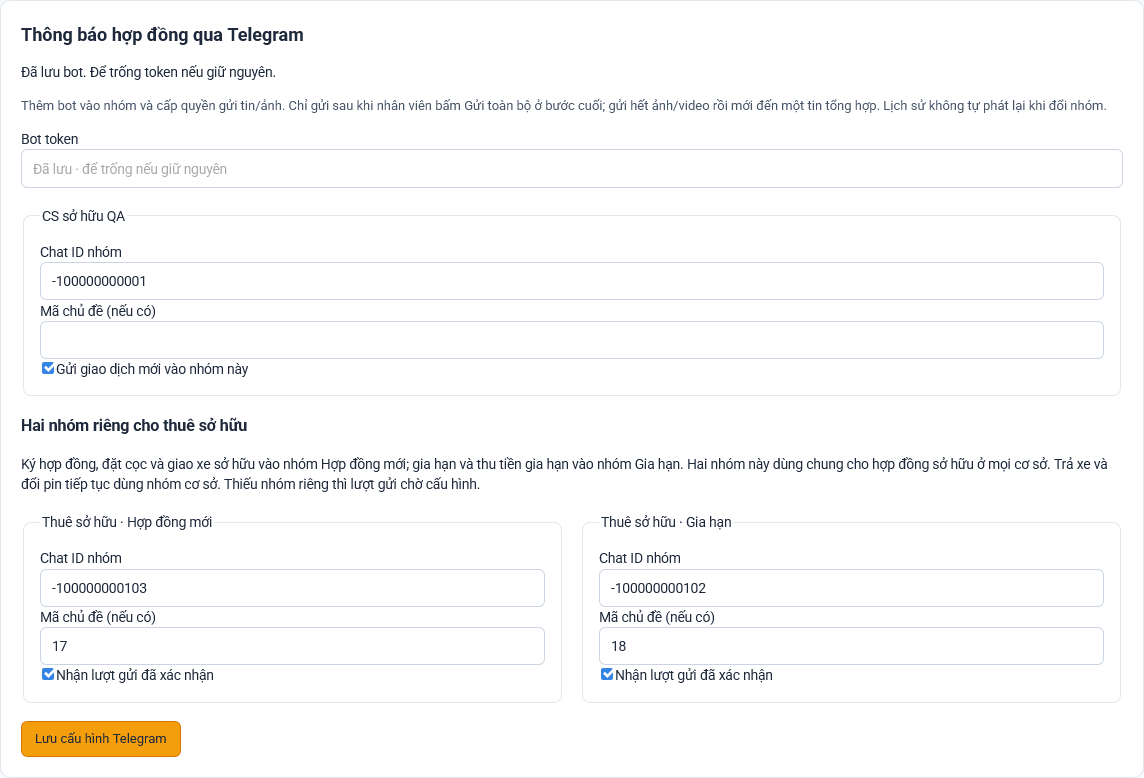
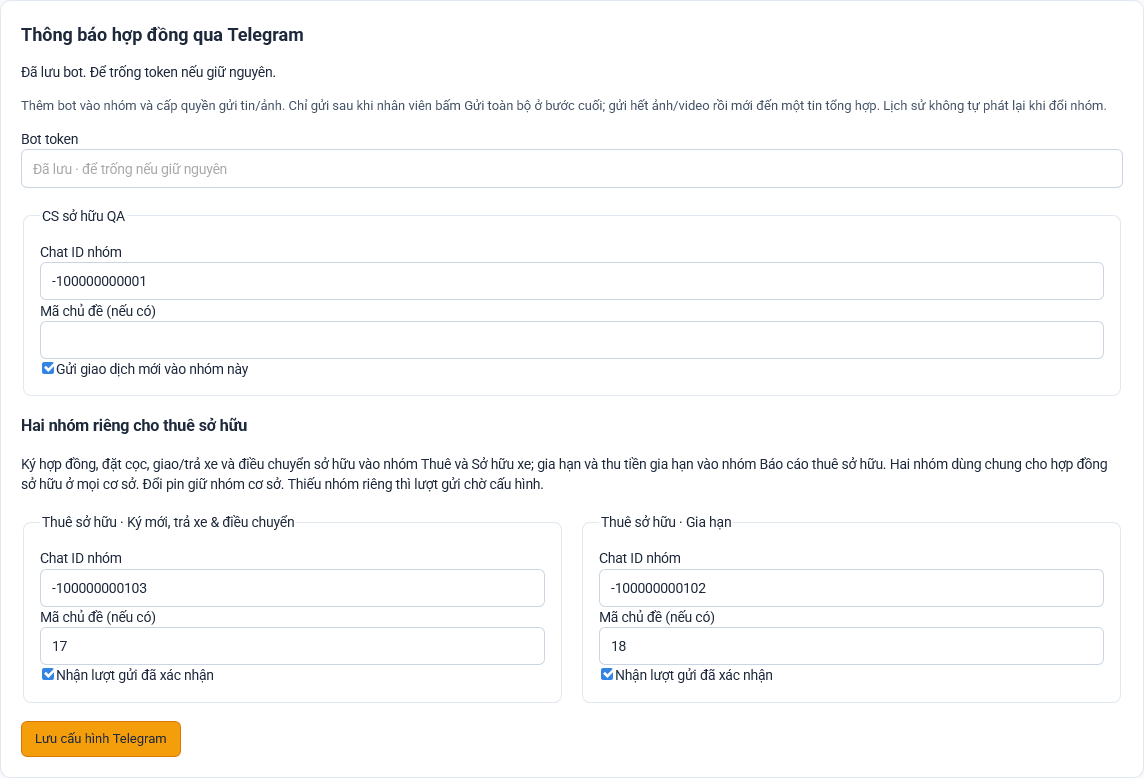
feat: route ownership returns and transfers to confirmed Telegram groups

Changed region(s): [[0.0306, 0.5861, 0.979, 0.6787]]

diff --git a/src/lib/server/vehicle-transfer-telegram.ts b/src/lib/server/vehicle-transfer-telegram.ts
@@ -1,0 +1,52 @@
+import 'server-only';
+import { randomUUID } from 'node:crypto';
+import type { PoolClient } from 'pg';
+import { hasPermission,type PermissionAccount } from '@/lib/management/permissions';
+import type { VehicleTransferTelegramState } from '@/lib/management/vehicle-transfer-telegram';
+import { OWNERSHIP_TELEGRAM_DESTINATIONS } from '@/lib/management/telegram-destinations';
+import { contractNotificationText,type NotificationPayload } from './contract-notification-content';
+import { OWNERSHIP_ORDER_SQL } from './contract-telegram-routing';
+
+type Database=Pick<PoolClient,'query'>;
+type User=PermissionAccount&{store_id?:number|null;scope_all?:boolean};
+export class VehicleTransferTelegramError extends Error {constructor(message:string,public status=400){super(message);}}
+export async function readVehicleTransferTelegram(db:Database,vehicleId:number,eventId:number,user:User) {
+  const e=(await db.query(`SELECT e.id,e.vehicle_id,e.event_type,e.from_store_id,e.to_store_id,e.notes,
+    e.created_at AT TIME ZONE 'Asia/Ho_Chi_Minh' AS at,
+    COALESCE(e.audit_snapshot->>'license',v.license) AS license,COALESCE(e.audit_snapshot->>'vehicle_name',v.name) AS vehicle_name,
+    COALESCE(e.audit_snapshot->>'actor_name',u.name) AS actor,
+    COALESCE(e.audit_snapshot->>'from_store_name',fs.store_name) AS from_name,COALESCE(e.audit_snapshot->>'to_store_name',ts.store_name) AS to_name,
+    (fs.kind='lease_to_own' OR ts.kind='lease_to_own' OR COALESCE(r.ownership,false)) AS ownership
+    FROM himoto.vehicle_location_events e JOIN himoto.vehicles v ON v.id=e.vehicle_id
+    LEFT JOIN himoto.stores fs ON fs.id=e.from_store_id LEFT JOIN himoto.stores ts ON ts.id=e.to_store_id
+    LEFT JOIN himoto.users u ON u.id=e.created_by
+    LEFT JOIN LATERAL (SELECT ${OWNERSHIP_ORDER_SQL} AS ownership FROM himoto.order_vehicle_details d
+      JOIN himoto.orders o ON o.id=d.order_id LEFT JOIN himoto.stores s ON s.id=o.store_id
+      WHERE d.vehicle_id=e.vehicle_id AND d.deleted_at IS NULL AND o.deleted_at IS NULL
+        AND o.order_status NOT IN ('draft','cancelled') AND o.created_at<=(e.created_at AT TIME ZONE 'Asia/Ho_Chi_Minh')
+      ORDER BY o.id DESC LIMIT 1) r ON true
+    WHERE e.id=$1 AND e.vehicle_id=$2 AND e.event_type IN ('manual_transfer','manual_transfer_receive')`,[eventId,vehicleId])).rows[0];
+  if(!e)throw new VehicleTransferTelegramError('Không tìm thấy lượt chuyển/nhận xe.',404);
+  const all=user.scope_all===true||user.access_role==='admin';
+  if(!all&&![Number(e.from_store_id),Number(e.to_store_id)].includes(Number(user.store_id)))throw new VehicleTransferTelegramError('Không có quyền xem lượt chuyển xe của cơ sở khác.',403);
+  const received=e.event_type==='manual_transfer_receive',storeId=Number(received?e.to_store_id:e.from_store_id);
+  const allowed=hasPermission(user,received?'vehicles.receive':'vehicles.transfer')&&(all||storeId===Number(user.store_id));
+  const payload:NotificationPayload={code:`DC-${e.id}`,customer:'',phone:'',store:e.from_name,actor:e.actor||'Chưa ghi nhận',vehicles:e.license||'',vehicle_names:e.vehicle_name||'',total:'0',at:new Date(e.at).toISOString(),photos:[],transfer:{from:e.from_name||'',to:e.to_name||'',note:e.notes||'',received}};
+  const notice=(await db.query('SELECT status,message_ids FROM himoto.management_contract_notifications WHERE vehicle_event_id=$1',[eventId])).rows[0];
+  const state:VehicleTransferTelegramState={eligible:e.ownership===true,event_id:eventId,vehicle_id:vehicleId,destination_label:OWNERSHIP_TELEGRAM_DESTINATIONS[0].label,
+    text:contractNotificationText(received?'vehicle_receive':'vehicle_transfer',payload),status:notice?.status||null,message_count:notice?.message_ids?.length||0,
+    can_send:e.ownership===true&&allowed&&(!notice||['failed','awaiting_config'].includes(notice.status))};
+  return {state,payload,store_id:storeId,allowed,kind:received?'vehicle_receive':'vehicle_transfer'};
+}
+export async function saveVehicleTransferTelegram(db:Database,vehicleId:number,eventId:number,user:User) {
+  await db.query('SELECT id FROM himoto.vehicle_location_events WHERE id=$1 AND vehicle_id=$2 FOR UPDATE',[eventId,vehicleId]);
+  const read=await readVehicleTransferTelegram(db,vehicleId,eventId,user);
+  if(!read.allowed)throw new VehicleTransferTelegramError('Chỉ người có quyền chuyển/nhận tại cơ sở thực hiện được gửi lượt này.',403);
+  if(!read.state.eligible)throw new VehicleTransferTelegramError('Lượt chuyển xe này không thuộc thuê sở hữu.');
+  if(!read.state.can_send){if(['sent','pending','sending'].includes(read.state.status||''))return read.state;throw new VehicleTransferTelegramError('Không được gửi lại lượt chưa rõ kết quả hoặc thao tác ngoài cơ sở được phân quyền.',403);}
+  await db.query(`INSERT INTO himoto.management_contract_notifications(id,order_id,store_id,event_key,root_event_key,event_type,payload,delivery_mode,status,vehicle_event_id)
+    VALUES($1,NULL,$2,$3,$3,$4,$5,'manual','pending',$6)
+    ON CONFLICT(vehicle_event_id) WHERE vehicle_event_id IS NOT NULL DO UPDATE SET status='pending',error_code=NULL
+      WHERE management_contract_notifications.status IN ('failed','awaiting_config')`,[randomUUID(),read.store_id,`vehicle-event:${eventId}`,read.kind,JSON.stringify(read.payload),eventId]);
+  return (await readVehicleTransferTelegram(db,vehicleId,eventId,user)).state;
+}

diff --git a/src/components/management/VehicleTransfersPage.tsx b/src/components/management/VehicleTransfersPage.tsx
@@ -8,11 +8,13 @@ import { formatDateTime } from '@/lib/formatters';
 import { vietnamDate } from '@/lib/management/duty-roster';
 import { useManagement } from './ManagementProvider';
 import { MobileDetailsCard } from './MobileDetailsCard';
+import { Dialog } from './Dialog';
+import { VehicleTransferTelegramPanel } from './VehicleTransferTelegramPanel';
 
 const dash = (value: string) => value || '—';
 const direction = (row: TransferHistoryRow) => `${row.from_store || 'Chưa rõ cơ sở đi'} → ${row.to_store || 'Chưa rõ cơ sở đến'}`;
-function Changes({ row }: { row: TransferHistoryRow }) {
-  return <div className="mg-vehicle-audit-content">{row.changes.length > 0 && <ul>{row.changes.map(change => <li key={change.field}>
+function Changes({ row,onTelegram }: { row: TransferHistoryRow;onTelegram:()=>void }) {
+  return <div className="mg-vehicle-audit-content">{row.telegram_event_id&&<button type="button" className="mg-button" onClick={onTelegram}>Telegram lượt chuyển/nhận</button>}{row.changes.length > 0 && <ul>{row.changes.map(change => <li key={change.field}>
     <strong>{change.label}:</strong> {dash(change.from)} → {dash(change.to)}</li>)}</ul>}{row.note && <p>{row.note}</p>}{!row.changes.length && !row.note && '—'}</div>;
 }
 
@@ -21,6 +23,7 @@ export function VehicleTransfersPage() {
   const [filters, setFilters] = useState(defaultTransferHistoryQuery);
   const [query, setQuery] = useState(defaultTransferHistoryQuery);
   const [report, setReport] = useState<TransferHistoryResult | null>(null);
+  const [telegramRow,setTelegramRow]=useState<TransferHistoryRow|null>(null);
   const [loading, setLoading] = useState(true), [error, setError] = useState(''), [retry, setRetry] = useState(0);
   const invalidDates = !filters.from || !filters.to || filters.from > filters.to;
   useEffect(() => {
@@ -43,6 +46,7 @@ export function VehicleTransfersPage() {
   function change(key: keyof TransferHistoryQuery, value: string) { setFilters(current => ({ ...current, [key]: value })); }
   const stores = dataset?.stores || [], rows = report?.rows || [], pages = Math.max(1, Math.ceil((report?.total || 0) / (report?.size || 25)));
   return <section className="mg-page mg-page-vehicle-transfers" aria-label="Lịch sử luân chuyển">
+    {telegramRow?.telegram_event_id&&<Dialog title="Telegram · Điều chuyển xe" onClose={()=>setTelegramRow(null)}><div className="mg-dialog-body"><VehicleTransferTelegramPanel vehicleId={telegramRow.vehicle_id} eventId={telegramRow.telegram_event_id}/></div><div className="mg-dialog-footer"><button className="mg-button" type="button" onClick={()=>setTelegramRow(null)}>Đóng</button></div></Dialog>}
     <div className="mg-page-content">
       <div className="mg-page-heading"><div><h1>Lịch sử luân chuyển<span className="mg-title-count">{loading || error ? '—' : report?.total || 0}</span></h1>
         <p>Xem xe chuyển từ cơ sở nào sang cơ sở nào trong ngày. Mỗi dòng là một lần chuyển hoặc nhận xe.</p></div>
@@ -67,11 +71,11 @@ export function VehicleTransfersPage() {
             <div className="mg-mobile-records"><ul className="mg-mobile-card-list">{rows.map(row => <MobileDetailsCard key={row.id} title={`${row.label} · ${row.license || row.vehicle_name}`}
               summary={<><span>{formatDateTime(row.at)}</span><span>{dash(row.actor)}</span></>} preview={direction(row)}
               fields={[["Tên xe", dash(row.vehicle_name)], ["Biển số", dash(row.license)], ["Cơ sở chuyển đi", dash(row.from_store)], ["Cơ sở nhận", dash(row.to_store)],
-                ["Ngày giờ", formatDateTime(row.at)], ["Người thao tác", dash(row.actor)], ["Nội dung thao tác", <Changes key="changes" row={row}/>]]}/>)}</ul></div>
+                ["Ngày giờ", formatDateTime(row.at)], ["Người thao tác", dash(row.actor)], ["Nội dung thao tác", <Changes key="changes" row={row} onTelegram={()=>setTelegramRow(row)}/>]]}/>)}</ul></div>
             <div className="mg-table-scroll mg-desktop-records" tabIndex={0} role="region" aria-label="Bảng lịch sử luân chuyển"><table className="mg-table mg-transfer-history-table">
               <thead><tr>{['Ngày giờ','Thao tác','Biển số / Tên xe','Cơ sở chuyển đi','Cơ sở nhận','Người thao tác','Nội dung thao tác'].map(label => <th scope="col" key={label}>{label}</th>)}</tr></thead>
               <tbody>{rows.map(row => <tr key={row.id}><td>{formatDateTime(row.at)}</td><td><span className={`mg-status mg-status-${row.action === 'receive' ? 'green' : 'blue'}`}>{row.label}</span></td>
-                <td><strong>{dash(row.license)}</strong><small className="mg-transfer-vehicle-name">{row.vehicle_name}</small></td><td>{dash(row.from_store)}</td><td>{dash(row.to_store)}</td><td>{dash(row.actor)}</td><td><Changes row={row}/></td></tr>)}</tbody>
+                <td><strong>{dash(row.license)}</strong><small className="mg-transfer-vehicle-name">{row.vehicle_name}</small></td><td>{dash(row.from_store)}</td><td>{dash(row.to_store)}</td><td>{dash(row.actor)}</td><td><Changes row={row} onTelegram={()=>setTelegramRow(row)}/></td></tr>)}</tbody>
             </table></div>
           </>}
         {!loading && !error && report && report.total > 0 && <div className="mg-transfer-pagination"><span>{report.total} thao tác · Trang {report.page}/{pages}</span>

diff --git a/src/components/management/IntegrationsPage.tsx b/src/components/management/IntegrationsPage.tsx
@@ -41,11 +41,11 @@ export function IntegrationsPage() {
     <section className="mg-integration-section"><h2>Thông báo hợp đồng qua Telegram</h2><p>{data?.telegram_configured?'Đã lưu bot. Để trống token nếu giữ nguyên.':'Chưa có bot. Thông báo được lưu ở trạng thái chờ cấu hình.'}</p><p className="mg-reminder-help">Thêm bot vào nhóm và cấp quyền gửi tin/ảnh. Chỉ gửi sau khi nhân viên bấm Gửi toàn bộ ở bước cuối; gửi hết ảnh/video rồi mới đến một tin tổng hợp. Lịch sử không tự phát lại khi đổi nhóm.</p>
       <form onSubmit={saveTelegram}><label className="mg-field">Bot token<input type="password" autoComplete="new-password" value={token} onChange={event=>setToken(event.target.value)} placeholder={data?.telegram_configured?'Đã lưu · để trống nếu giữ nguyên':'Nhập token khi đã tạo bot'}/></label>
         <div className="mg-telegram-groups">{groups.map((row,index)=><fieldset key={row.store_id}><legend>{row.store_name}</legend><label className="mg-field">Chat ID nhóm<input placeholder="-100…" value={row.chat_id||''} onChange={event=>group(index,{chat_id:event.target.value})}/></label><label className="mg-field">Mã chủ đề (nếu có)<input inputMode="numeric" value={row.thread_id??''} onChange={event=>group(index,{thread_id:event.target.value})}/></label><label><input type="checkbox" checked={row.enabled} onChange={event=>group(index,{enabled:event.target.checked})}/>Gửi giao dịch mới vào nhóm này</label></fieldset>)}</div>
-        <h3>Hai nhóm riêng cho thuê sở hữu</h3><p>Ký hợp đồng, đặt cọc và giao xe sở hữu vào nhóm Hợp đồng mới; gia hạn và thu tiền gia hạn vào nhóm Gia hạn. Hai nhóm này dùng chung cho hợp đồng sở hữu ở mọi cơ sở. Trả xe và đổi pin tiếp tục dùng nhóm cơ sở. Thiếu nhóm riêng thì lượt gửi chờ cấu hình.</p>
+        <h3>Hai nhóm riêng cho thuê sở hữu</h3><p>Ký hợp đồng, đặt cọc, giao/trả xe và điều chuyển sở hữu vào nhóm Thuê và Sở hữu xe; gia hạn và thu tiền gia hạn vào nhóm Báo cáo thuê sở hữu. Hai nhóm dùng chung cho hợp đồng sở hữu ở mọi cơ sở. Đổi pin giữ nhóm cơ sở. Thiếu nhóm riêng thì lượt gửi chờ cấu hình.</p>
         <div className="mg-telegram-groups">{ownershipGroups.map((row,index)=><fieldset key={row.route}><legend>{row.label}</legend><label className="mg-field">Chat ID nhóm<input placeholder="-100…" value={row.chat_id||''} onChange={event=>ownershipGroup(index,{chat_id:event.target.value})}/></label><label className="mg-field">Mã chủ đề (nếu có)<input inputMode="numeric" value={row.thread_id??''} onChange={event=>ownershipGroup(index,{thread_id:event.target.value})}/></label><label><input type="checkbox" checked={row.enabled} onChange={event=>ownershipGroup(index,{enabled:event.target.checked})}/>Nhận lượt gửi đã xác nhận</label></fieldset>)}</div>
         <button className="mg-button mg-button-primary" disabled={saving||!data}>{saving?'Đang lưu…':'Lưu cấu hình Telegram'}</button>
       </form>
     </section>
-    <section className="mg-integration-section"><h2>Thông báo hợp đồng gần nhất</h2>{!data?.notifications.length?<p>Chưa có thông báo. Khi hoàn tất thuê, giao xe hoặc trả xe, hệ thống tự lưu thông báo và ảnh của giao dịch.</p>:<ul className="mg-notification-list">{data.notifications.map(row=><li key={row.id}><strong>{row.code}</strong> · {CONTRACT_EVENT_LABELS[row.event_type as ContractEventType]||row.event_type} · {noticeLabels[row.status]||row.status}<p>{row.photos} ảnh · {formatDateTime(row.created_at)}{row.error_code?` · ${row.error_code}`:''}</p></li>)}</ul>}</section>
+    <section className="mg-integration-section"><h2>Thông báo gần nhất</h2>{!data?.notifications.length?<p>Chưa có thông báo. Thông tin và ảnh được lưu sau khi hoàn tất giao dịch; chỉ gửi Telegram khi bấm nút gửi.</p>:<ul className="mg-notification-list">{data.notifications.map(row=><li key={row.id}><strong>{row.code}</strong> · {row.event_type==='vehicle_transfer'?'Điều chuyển xe sở hữu':row.event_type==='vehicle_receive'?'Nhận xe sở hữu':CONTRACT_EVENT_LABELS[row.event_type as ContractEventType]||row.event_type} · {noticeLabels[row.status]||row.status}<p>{row.photos} ảnh · {formatDateTime(row.created_at)}{row.error_code?` · ${row.error_code}`:''}</p></li>)}</ul>}</section>
   </div></section>;
 }

diff --git a/src/components/management/VehicleTransferTelegramPanel.tsx b/src/components/management/VehicleTransferTelegramPanel.tsx
@@ -1,0 +1,20 @@
+'use client';
+import { useCallback,useEffect,useState } from 'react';
+import { NOTICE_STATUS_LABELS } from '@/lib/management/contract-telegram';
+import { vehicleTransferTelegramRequest,type VehicleTransferTelegramState } from '@/lib/management/vehicle-transfer-telegram';
+
+export function VehicleTransferTelegramPanel({vehicleId,eventId}:{vehicleId:number;eventId:number}) {
+  const [data,setData]=useState<VehicleTransferTelegramState|null>(null),[error,setError]=useState(''),[busy,setBusy]=useState(false);
+  const refresh=useCallback(async(signal?:AbortSignal)=>{try{const value=await vehicleTransferTelegramRequest(vehicleId,eventId,false,signal);if(!signal?.aborted){setData(value);setError('');}}catch(cause){if(!signal?.aborted)setError(cause instanceof Error?cause.message:'Không tải được thông báo.');}},[vehicleId,eventId]);
+  useEffect(()=>{const controller=new AbortController();void refresh(controller.signal);return()=>controller.abort();},[refresh]);
+  useEffect(()=>{if(!data||!['pending','sending'].includes(data.status||''))return;const controller=new AbortController();const timer=setTimeout(()=>void refresh(controller.signal),3000);return()=>{clearTimeout(timer);controller.abort();};},[data,refresh]);
+  return <section className="mg-contract-telegram"><p>Đã lưu thao tác kho. Kiểm tra nội dung rồi bấm gửi; đóng màn hình không gửi Telegram. Có thể mở lại từ Lịch sử luân chuyển.</p>
+    <button className="mg-button" type="button" disabled={busy} onClick={()=>void refresh()}>Làm mới trạng thái</button>
+    {error&&<p role="alert" className="mg-field-error">{error}</p>}
+    {data&&!data.eligible?<p>Lượt chuyển xe này không thuộc thuê sở hữu.</p>:data&&<><p><strong>Nơi nhận: {data.destination_label}</strong></p><pre className="mg-telegram-preview">{data.text}</pre>
+      <p role="status">{data.status?NOTICE_STATUS_LABELS[data.status]:'Chưa gửi'}</p>
+      {data.status==='unknown'&&<p role="alert">Chưa rõ Telegram đã nhận hay chưa. Kiểm tra nhóm trước khi xử lý; hệ thống không tự gửi lại.</p>}
+      <button type="button" className="mg-button mg-button-primary" disabled={busy||!data.can_send} onClick={async()=>{setBusy(true);setError('');try{setData(await vehicleTransferTelegramRequest(vehicleId,eventId,true));}catch(cause){setError(cause instanceof Error?cause.message:'Không gửi được thông báo.');}finally{setBusy(false);}}}>{busy?'Đang xử lý…':data.status==='sent'?'Đã gửi Telegram':['pending','sending'].includes(data.status||'')?'Đang gửi Telegram':'Gửi thông tin Telegram'}</button>
+    </>}
+  </section>;
+}

diff --git a/src/components/management/VehicleDetail.tsx b/src/components/management/VehicleDetail.tsx
@@ -13,6 +13,7 @@ import { formatValue } from '@/lib/management/table-utils';
 import { ManagementConfig, ManagementRow } from '@/lib/management/types';
 import { formatDateTime } from '@/lib/formatters';
 import { MobileDetailsCard } from './MobileDetailsCard';
+import { VehicleTransferTelegramPanel } from './VehicleTransferTelegramPanel';
 
 const SECTIONS = [
   { id: 'details', label: 'Thông tin xe' },
@@ -28,6 +29,7 @@ export function VehicleDetail({ row, config, canEdit, onEdit, onClose, onAction 
   const [action, setAction] = useState<VehicleEventAction | ''>('');
   const [loading, setLoading] = useState(false);
   const [error, setError] = useState('');
+  const [telegramEvent,setTelegramEvent]=useState<number|null>(null);
   const fetchHistory = useCallback((signal?: AbortSignal) => {
     setLoading(true); setError('');
     loadVehicleHistory(row.id, signal).then(value => { if (!signal?.aborted) setEvents(value); }).catch(cause => {
@@ -47,11 +49,13 @@ export function VehicleDetail({ row, config, canEdit, onEdit, onClose, onAction 
   const shown = (events || []).filter(event => !action || event.action === action);
   const dash = (value: string) => value || '—';
   const content = (event:VehicleEvent) => <div className="mg-vehicle-audit-content">
+    {event.telegram_event_id&&source==='api'&&<button type="button" className="mg-button" onClick={()=>setTelegramEvent(event.telegram_event_id!)}>Telegram lượt chuyển/nhận</button>}
     {Boolean(event.changes?.length) && <ul>{event.changes!.map(change=><li key={change.field}><strong>{change.label}: </strong><span>{dash(change.from)}</span><span aria-label="thành"> → </span><span>{dash(change.to)}</span></li>)}</ul>}
     {event.note && <p>{event.order_id ? <Link href={`/contracts?contract_id=${event.order_id}`} onClick={onClose}>{event.note}</Link> : event.note}</p>}
     {!event.changes?.length && !event.note && (event.action==='edit'?'Không có trường thay đổi.':'—')}
   </div>;
 
+  if(telegramEvent)return <Dialog title="Telegram · Điều chuyển xe" onClose={()=>setTelegramEvent(null)}><div className="mg-dialog-body"><VehicleTransferTelegramPanel vehicleId={row.id} eventId={telegramEvent}/></div><div className="mg-dialog-footer"><button type="button" className="mg-button" onClick={()=>setTelegramEvent(null)}>Quay lại lịch sử xe</button></div></Dialog>;
   return <Dialog title={String(row.name)} subtitle={`${row.license || row.code} · ${config.title}`} className="mg-customer-detail mg-vehicle-detail" onClose={onClose}>
     <div className="mg-dialog-body">
       <ContractSectionTabs prefix="vehicle-detail" sections={SECTIONS} active={section} onChange={setSection} />

diff --git a/src/lib/server/contract-notifications.ts b/src/lib/server/contract-notifications.ts
@@ -27,7 +27,7 @@ async function telegramCall(token:string,method:string,body:FormData|Record<stri
   return result.result;
 }
 /** Claims are committed before calling Telegram. An uncertain send is never retried automatically. */
-export async function dispatchContractNotifications(send:typeof fetch=fetch,limit=5,database:Database=ownerDatabase,orderIds?:number[]) {
+export async function dispatchContractNotifications(send:typeof fetch=fetch,limit=5,database:Database=ownerDatabase,orderIds?:number[],vehicleEventIds?:number[]) {
   const settings=(await database.query('SELECT bot_cipher FROM himoto.management_telegram_settings WHERE singleton=true')).rows[0];
   if(!settings?.bot_cipher){await database.query("UPDATE himoto.management_contract_notifications SET status='awaiting_config' WHERE status='pending' AND delivery_mode='manual'");return {sent:0,configured:false};}
   const {token}=openIntegrationSecret<{token:string}>(settings.bot_cipher);let sent=0;
@@ -46,6 +46,7 @@ export async function dispatchContractNotifications(send:typeof fetch=fetch,limi
           WHERE route=${CONTRACT_TELEGRAM_ROUTE_SQL} AND enabled
       ) g ON true
       WHERE n.status='pending' AND n.delivery_mode='manual' AND ($1::bigint[] IS NULL OR n.order_id=ANY($1))
+        AND ($3::bigint[] IS NULL OR n.vehicle_event_id=ANY($3))
         AND (g.chat_id IS NULL OR NOT EXISTS(SELECT 1 FROM himoto.management_telegram_delivery_leases l
           WHERE l.chat_id=g.chat_id AND l.thread_id=COALESCE(g.thread_id,0) AND l.expires_at>clock_timestamp()))
       ORDER BY n.created_at,n.id FOR UPDATE OF n SKIP LOCKED LIMIT 1
@@ -55,7 +56,7 @@ export async function dispatchContractNotifications(send:typeof fetch=fetch,limi
       ON CONFLICT(chat_id,thread_id) DO UPDATE SET lease_id=EXCLUDED.lease_id,notice_id=EXCLUDED.notice_id,expires_at=EXCLUDED.expires_at
       WHERE management_telegram_delivery_leases.expires_at<=clock_timestamp() RETURNING lease_id
     ) UPDATE himoto.management_contract_notifications n SET status='sending' FROM candidate c
-      WHERE n.id=c.id AND (c.chat_id IS NULL OR EXISTS(SELECT 1 FROM lease)) RETURNING n.*,c.chat_id,c.thread_id`,[orderIds||null,leaseId])).rows[0];
+      WHERE n.id=c.id AND (c.chat_id IS NULL OR EXISTS(SELECT 1 FROM lease)) RETURNING n.*,c.chat_id,c.thread_id`,[orderIds||null,leaseId,vehicleEventIds||null])).rows[0];
     if(!row)break;
     if(!row.chat_id){await database.query("UPDATE himoto.management_contract_notifications SET status='awaiting_config' WHERE id=$1",[row.id]);continue;}
     const payload=row.payload as NotificationPayload,ids:number[]=[];

diff --git a/src/components/management/VehicleActionDialog.tsx b/src/components/management/VehicleActionDialog.tsx
@@ -11,6 +11,7 @@ import { Dialog } from './Dialog';
 import { useManagement } from './ManagementProvider';
 import { vehicleTransferRoute } from '@/lib/management/vehicle-history';
 import Link from 'next/link';
+import { VehicleTransferTelegramPanel } from './VehicleTransferTelegramPanel';
 
 export type VehicleActionMode = 'transfer' | 'status' | 'receive';
 const STATUS_CHOICES = [{ value: 'using', label: 'Lập hợp đồng nháp' }, { value: 'ready', label: 'Lưu kho' }] as const;
@@ -73,11 +74,12 @@ export function VehicleActionDialog({ mode, vehicle, onClose }: { mode: VehicleA
         : { action: 'status', status: status as 'ready' | 'using', beneficiary_store_id: storeId, customer_name: customer.name, customer_phone: customer.phone, customer_id_card: customer.idCard, note, revision });
       await ensureData(saved.customer ? ['vehicles', 'customers', 'contracts'] : mode==='transfer'||mode==='receive'?['vehicles','stores']:['vehicles'], true).catch(() => {});
       notify(mode === 'transfer' ? `Xe ${selected.license} chuyển sang Chờ luân chuyển tại ${stores.find(store=>String(store.id)===storeId)?.name || 'cơ sở đích'}. Đã lưu lịch sử.` : mode==='receive'?`Đã nhận xe ${selected.license} tại ${selected.transfer_to_store_name||selected.store_name}. Xe chuyển sang Lưu kho. Đã lưu lịch sử.`:saved.draft?'Đã tạo hợp đồng nháp. Xe vẫn Lưu kho đến khi phát hành hợp đồng.':`Đã đổi trạng thái xe ${selected.license}.`);
-      if (saved.draft) setResult(saved); else onClose();
+      if (saved.draft||saved.telegram_event_id) setResult(saved); else onClose();
     } catch (cause) { setError(cause instanceof Error ? cause.message : 'Không lưu được thao tác xe.'); }
     finally { busy.current = false; setSaving(false); }
   }
 
+  if(result?.telegram_event_id)return <Dialog title="Kiểm tra & gửi Telegram · Điều chuyển xe" onClose={onClose}><div className="mg-dialog-body"><VehicleTransferTelegramPanel vehicleId={result.id} eventId={result.telegram_event_id}/></div><div className="mg-dialog-footer"><button type="button" className="mg-button" onClick={onClose}>Đóng</button></div></Dialog>;
   if (result?.draft) return <Dialog title="Đã tạo hợp đồng nháp" subtitle={selected ? vehicleOption(selected) : ''} onClose={onClose}>
     <div className="mg-dialog-body"><ul className="mg-vehicle-action-result">
       <li><Check size={16} />Xe vẫn <strong>Lưu kho</strong>. Chỉ chuyển sang Đang thuê sau khi phát hành hợp đồng.</li>

diff --git a/src/app/api/auth/vehicles/[id]/transfers/[eventId]/telegram/route.ts b/src/app/api/auth/vehicles/[id]/transfers/[eventId]/telegram/route.ts
@@ -1,0 +1,27 @@
+import { after,NextRequest,NextResponse } from 'next/server';
+import { withAccessRequest } from '@/lib/server/access-request';
+import { dataAccess } from '@/lib/server/access-context';
+import { ownerDatabase } from '@/lib/server/himoto-database';
+import { readVehicleTransferTelegram,saveVehicleTransferTelegram,VehicleTransferTelegramError } from '@/lib/server/vehicle-transfer-telegram';
+import { dispatchContractNotifications } from '@/lib/server/contract-notifications';
+export const runtime='nodejs';
+export const maxDuration=300;
+type Params={params:Promise<{id:string;eventId:string}>};
+async function handle(request:NextRequest,{params}:Params,writing:boolean){
+  let client;
+  try{
+    const {id,eventId}=await params;
+    if(![id,eventId].every(value=>/^[1-9]\d{0,14}$/.test(value)&&Number.isSafeInteger(Number(value))))throw new VehicleTransferTelegramError('Mã xe/lượt chuyển không hợp lệ.');
+    if(writing){const raw=await request.text();let body;try{body=raw.length<=100?JSON.parse(raw):null;}catch{body=null;}if(!body||body.action!=='send'||Object.keys(body).length!==1)throw new VehicleTransferTelegramError('Chọn thao tác gửi hợp lệ.');}
+    client=await ownerDatabase.connect();await client.query(writing?'BEGIN':'BEGIN READ ONLY');
+    await client.query("SET LOCAL statement_timeout='15s'");
+    const user=dataAccess.getStore()!;
+    const state=writing?await saveVehicleTransferTelegram(client,Number(id),Number(eventId),user):(await readVehicleTransferTelegram(client,Number(id),Number(eventId),user)).state;
+    await client.query('COMMIT');
+    if(writing)after(async()=>{await dispatchContractNotifications(undefined,1,undefined,undefined,[Number(eventId)]);});
+    return NextResponse.json({status:'success',data:state},{headers:{'Cache-Control':'private, no-store'}});
+  }catch(error){if(client)await client.query('ROLLBACK').catch(()=>{});return NextResponse.json({status:'error',message:error instanceof VehicleTransferTelegramError?error.message:'Không xử lý được Telegram của lượt chuyển xe.'},{status:error instanceof VehicleTransferTelegramError?error.status:500});}
+  finally{client?.release();}
+}
+export const GET=withAccessRequest((request:NextRequest,params:Params)=>handle(request,params,false));
+export const POST=withAccessRequest((request:NextRequest,params:Params)=>handle(request,params,true));

diff --git a/src/lib/server/contract-notification-content.ts b/src/lib/server/contract-notification-content.ts
@@ -13,11 +13,13 @@ export interface NotificationPayload {
   return_fees?:{late:number;repair:number;early_discount:number;collected:number;method:string;returned_at?:string};
   refund_recipient?:{bank?:string;account?:string;name?:string};
   battery_swap?:{percentage:number;fee:number;collected:number;license:string;vehicle_name:string};
+  transfer?:{from:string;to:string;note:string;received:boolean};
 }
 type Database=Pick<PoolClient,'query'>;
 const money=(value:unknown)=>value===null||value===undefined||value===''||!Number.isFinite(Number(value))?'Chưa đối chiếu':Number(value).toLocaleString('vi-VN');
 const day=(value:string|null)=>value?new Date(value).toLocaleDateString('vi-VN',{timeZone:'Asia/Ho_Chi_Minh',day:'2-digit',month:'2-digit',year:'numeric'}):'Chưa đối chiếu';
-export function contractNotificationText(kind:ContractEventType,p:NotificationPayload) {
+export function contractNotificationText(kind:ContractEventType|'vehicle_transfer'|'vehicle_receive',p:NotificationPayload) {
+  if(kind==='vehicle_transfer'||kind==='vehicle_receive')return [kind==='vehicle_receive'?'ĐÃ NHẬN XE SỞ HỮU':'ĐIỀU CHUYỂN XE SỞ HỮU',`Bsx: ${p.vehicles}`,`Loại xe: ${p.vehicle_names||'—'}`,`Cơ sở chuyển đi: ${p.transfer?.from||'—'}`,`Cơ sở nhận: ${p.transfer?.to||'—'}`,`Trạng thái: ${kind==='vehicle_receive'?'Đã nhận · Lưu kho':'Chờ cơ sở đích xác nhận nhận xe'}`,`Người thực hiện: ${p.actor}`,`Mã lượt: ${p.code}`,...(p.transfer?.note?[`Ghi chú: ${p.transfer.note}`]:[]),`Thời gian: ${new Date(p.at).toLocaleString('vi-VN',{timeZone:'Asia/Ho_Chi_Minh'})}`].join('\n').slice(0,4000);
   const method=p.method||'Chưa ghi nhận thanh toán';
   const vehicle=[`Bsx: ${p.renewal?.license||p.vehicles||'—'}`,`Loại xe: ${p.renewal?.vehicle_name||p.vehicle_names||'—'}`];
   const lines=kind==='battery_swap'?[`Khách đổi pin: ${p.customer}`,`Bsx: ${p.battery_swap?.license||p.vehicles}`,`Loại xe: ${p.battery_swap?.vehicle_name||p.vehicle_names||'—'}`,`Pin lúc nhận: ${p.battery_swap?.percentage??'—'}%`,`Phí pin dưới 20%: ${money(p.battery_swap?.fee)}`,`Đã thu: ${money(p.battery_swap?.collected)}`,`Hình thức thu: ${method}`]:kind==='return'?[`Khách trả xe: ${p.customer}`,...vehicle,

diff --git a/src/lib/server/vehicle-transfer-history.ts b/src/lib/server/vehicle-transfer-history.ts
@@ -38,7 +38,7 @@ export async function readTransferHistory(client: Pick<PoolClient, 'query'>, par
   if (input.search) filters.push(`strpos(lower(concat_ws(' ',license,vehicle_name,from_store,to_store,actor,note)),lower(${bind(input.search)}))>0`);
   const offset = bind((input.page - 1) * TRANSFER_HISTORY_SIZE);
   const result = await client.query(`WITH listed AS (
-    SELECT e.id,e.vehicle_id,e.audit_snapshot,
+    SELECT e.id,e.vehicle_id,e.audit_snapshot,e.event_type,
       COALESCE(NULLIF(e.audit_snapshot->>'vehicle_name',''),v.name,'') AS vehicle_name,
       COALESCE(NULLIF(e.audit_snapshot->>'license',''),v.license,'') AS license,
       COALESCE(original.from_store_id,e.from_store_id) AS from_store_id,e.to_store_id,
@@ -72,6 +72,7 @@ export async function readTransferHistory(client: Pick<PoolClient, 'query'>, par
   const row = result.rows[0];
   return { total: Number(row.total), page: input.page, size: TRANSFER_HISTORY_SIZE,
     rows: row.rows.map((event: Record<string, unknown>) => ({ id: Number(event.id), vehicle_id: Number(event.vehicle_id),
+      ...(['manual_transfer','manual_transfer_receive'].includes(String(event.event_type))?{telegram_event_id:Number(event.id)}:{}),
       vehicle_name: String(event.vehicle_name), license: String(event.license), from_store_id: event.from_store_id == null ? null : Number(event.from_store_id),
       to_store_id: event.to_store_id == null ? null : Number(event.to_store_id), from_store: String(event.from_store), to_store: String(event.to_store),
       action: event.action === 'transfer' ? 'transfer' : 'receive', label: event.action === 'transfer' ? 'Chuyển xe' : 'Nhận xe',

diff --git a/src/app/api/auth/vehicles/[id]/actions/route.ts b/src/app/api/auth/vehicles/[id]/actions/route.ts
@@ -1,6 +1,8 @@
 import { withAccessRequest } from '@/lib/server/access-request';
 import { NextRequest, NextResponse } from 'next/server';
-import { himotoPool } from '@/lib/server/himoto-database';
+import { himotoPool,ownerDatabase } from '@/lib/server/himoto-database';
+import { dataAccess } from '@/lib/server/access-context';
+import { readVehicleTransferTelegram } from '@/lib/server/vehicle-transfer-telegram';
 import { protectDatabaseRequest, SESSION_COOKIE, verifySession } from '@/lib/server/management-session';
 import { applyVehicleAction, parseVehicleAction, VehicleActionError } from '@/lib/server/vehicle-actions';
 
@@ -21,6 +23,11 @@ async function POSTHandler(request: NextRequest, { params }: Params) {
     await client.query('BEGIN');
     const data = await applyVehicleAction(client, Number(id), input, actorId);
     await client.query('COMMIT');
+    if(input.action==='transfer'||input.action==='receive'){
+      // A preview failure cannot turn a committed stock operation into a retryable error.
+      try{if((await readVehicleTransferTelegram(ownerDatabase,Number(id),data.event_id,dataAccess.getStore()!)).state.eligible)data.telegram_event_id=data.event_id;}
+      catch{data.telegram_event_id=data.event_id;}
+    }
     return NextResponse.json({ status: 'success', data }, { headers: { 'Cache-Control': 'no-store' } });
   } catch (error) {
     if (client) await client.query('ROLLBACK').catch(() => {});

diff --git a/src/lib/server/contract-telegram-routing.ts b/src/lib/server/contract-telegram-routing.ts
@@ -5,10 +5,11 @@ import { OWNERSHIP_TELEGRAM_DESTINATIONS } from '@/lib/management/telegram-desti
 // Keep classification consistent with the ownership contract list, including legacy imports.
 export const OWNERSHIP_ORDER_SQL = `(s.kind='lease_to_own' OR COALESCE(NULLIF(o.order_type,''),o.draft_payload->'management_composer'->>'rental_type') IN ('ownership','ownership_cd'))`;
 export const CONTRACT_TELEGRAM_ROUTE_SQL = `CASE
+  WHEN n.event_type IN ('vehicle_transfer','vehicle_receive') THEN 'ownership_new'
   WHEN ${OWNERSHIP_ORDER_SQL} AND n.event_type='renewal' THEN 'ownership_renewal'
-  WHEN ${OWNERSHIP_ORDER_SQL} AND n.event_type IN ('rental','reservation','handover') THEN 'ownership_new'
+  WHEN ${OWNERSHIP_ORDER_SQL} AND n.event_type IN ('rental','reservation','handover','return') THEN 'ownership_new'
   ELSE 'store' END`;
 export function contractTelegramDestination(kind:ContractEventType,ownership:boolean,storeName:string) {
-  const route=ownership&&(kind==='renewal'||['rental','reservation','handover'].includes(kind))?kind==='renewal'?'ownership_renewal':'ownership_new':null;
+  const route=ownership&&(kind==='renewal'||['rental','reservation','handover','return'].includes(kind))?kind==='renewal'?'ownership_renewal':'ownership_new':null;
   return OWNERSHIP_TELEGRAM_DESTINATIONS.find(item=>item.route===route)?.label||`Nhóm cơ sở ${storeName||'của hợp đồng'}`;
 }
